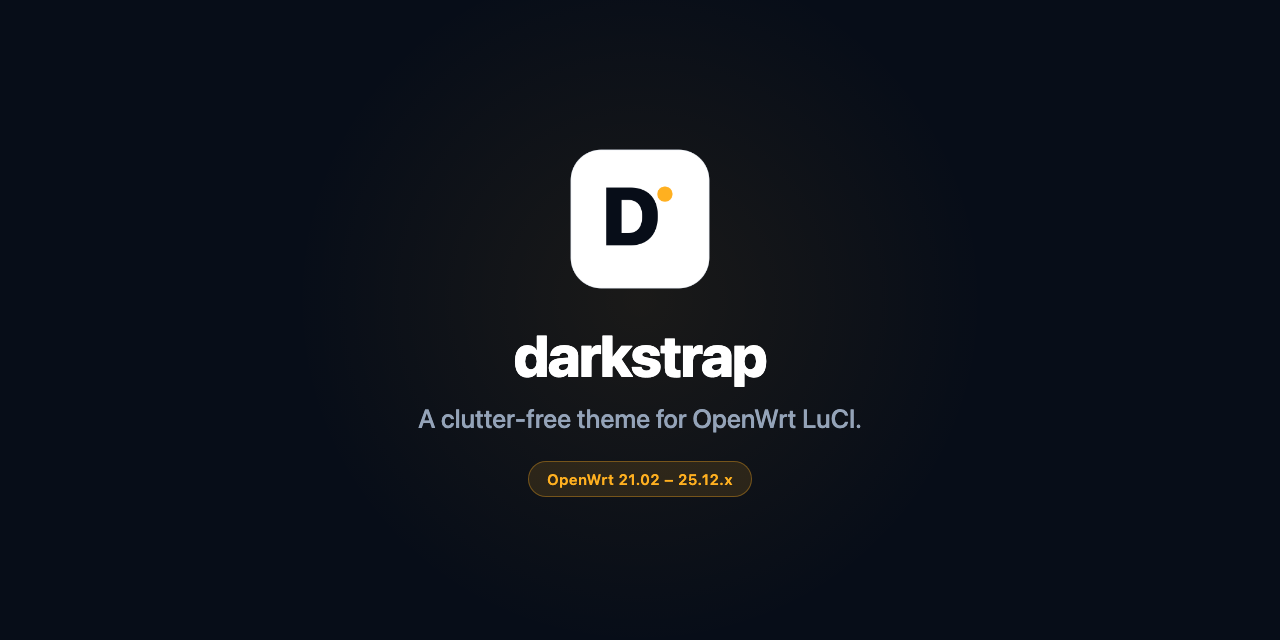
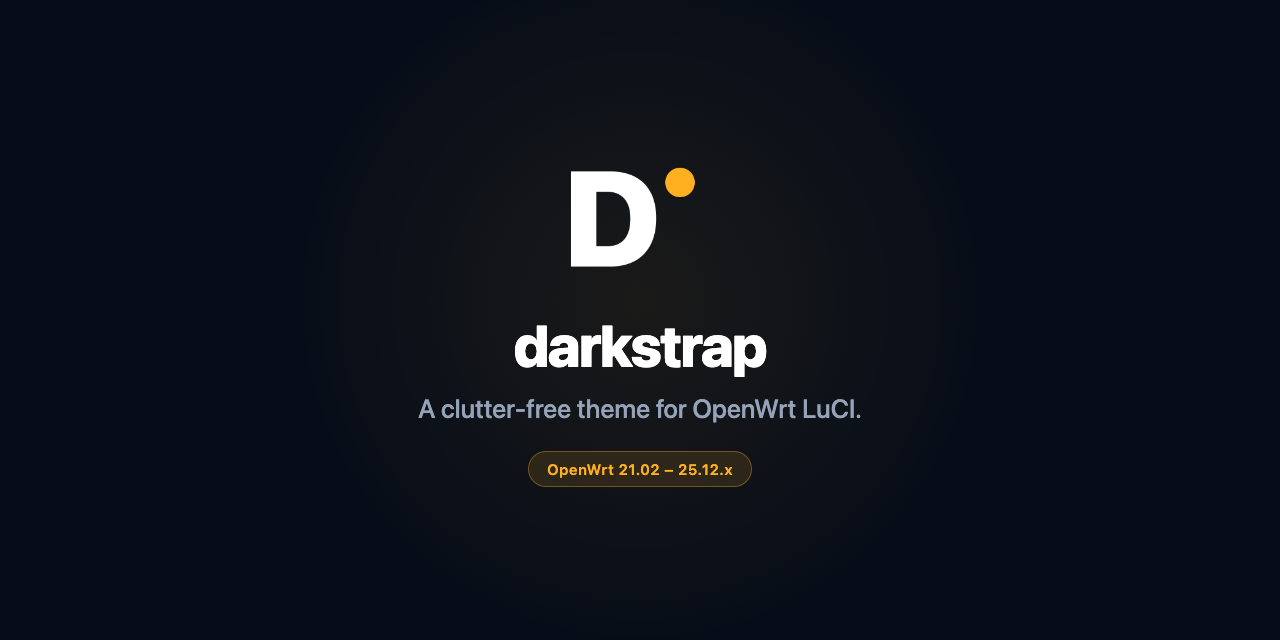
style: remove squircle border, use pure D monogram with amber dot

Changed region(s): [[0.3125, 0.5, 0.6875, 0.7812], [0.4375, 0.2188, 0.5625, 0.4688]]

diff --git a/README.md b/README.md
@@ -1,6 +1,9 @@
 <p align="center">
   <a href="https://github.com/FhDBro/luci-theme-darkstrap">
-    <img src="assets/logo.png" alt="Darkstrap Logo" width="160" height="160">
+    <picture>
+      <source media="(prefers-color-scheme: dark)" srcset="assets/logo-dark.svg">
+      <img src="assets/logo-light.svg" alt="darkstrap" width="130">
+    </picture>
   </a>
 </p>
 
